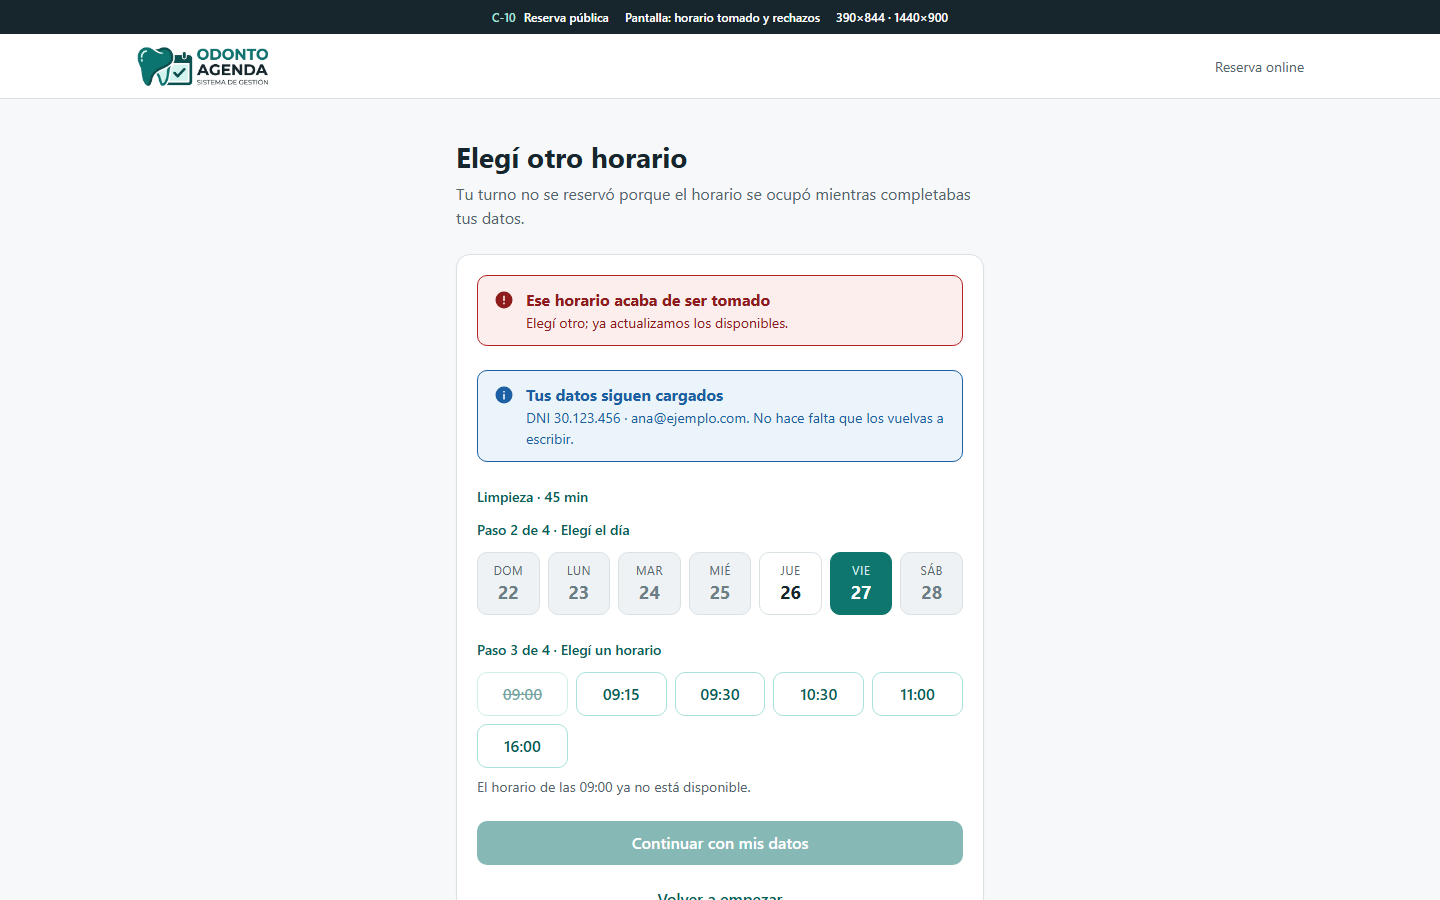
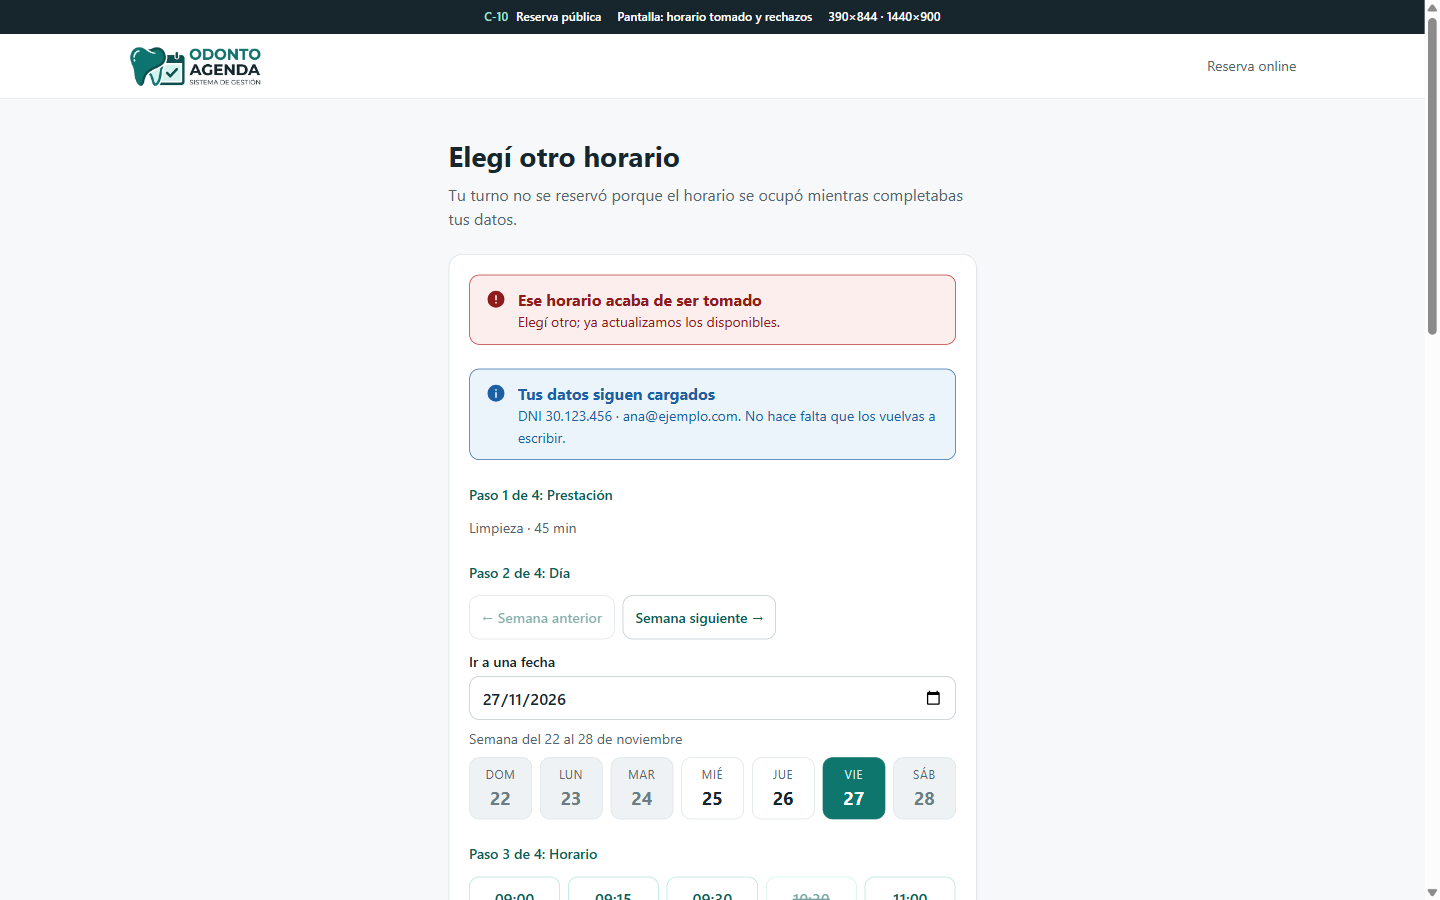
docs(C-10): alinear conflicto con la seleccion y regenerar capturas
- reserva-conflicto.html: pasos "Paso N de 4", navegacion semanal,
  salto por fecha y horario tomado 10:30 coherente con el formulario.
- mockup.js: dia seleccionado inicial configurable por data-seleccionada.
- design.md: campos del gate de mockups y riesgo contradictorio eliminado.
- proposal.md: flujo en 4 pasos.
- previews: 8 capturas regeneradas a 390x844 y 1440x900 reales.

diff --git a/openspec/changes/c-10-reserva-publica-ui/mockups/reserva-conflicto.html b/openspec/changes/c-10-reserva-publica-ui/mockups/reserva-conflicto.html
@@ -44,28 +44,51 @@
       </div>
 
       <div>
-        <p class="step">Limpieza · 45 min</p>
-        <p class="step">Paso 2 de 4 · Elegí el día</p>
-        <div class="days" role="group" aria-label="Elegí el día">
-          <button class="day" type="button" disabled><small>dom</small><strong>22</strong></button>
-          <button class="day" type="button" disabled><small>lun</small><strong>23</strong></button>
-          <button class="day" type="button" disabled><small>mar</small><strong>24</strong></button>
-          <button class="day" type="button" disabled><small>mié</small><strong>25</strong></button>
-          <button class="day" type="button" aria-pressed="false"><small>jue</small><strong>26</strong></button>
-          <button class="day" type="button" aria-pressed="true"><small>vie</small><strong>27</strong></button>
-          <button class="day" type="button" disabled><small>sáb</small><strong>28</strong></button>
+        <p class="step">Paso 1 de 4: Prestación</p>
+        <p class="small muted">Limpieza · 45 min</p>
+
+        <p class="step" style="margin-top: var(--space-6)">Paso 2 de 4: Día</p>
+
+        <div class="day-nav">
+          <div class="week-nav" role="group" aria-label="Navegación por semana">
+            <button class="week-btn" id="semana-anterior" type="button" aria-label="Semana anterior" disabled>
+              <span aria-hidden="true">←</span><span class="week-btn__text">Semana anterior</span>
+            </button>
+            <button class="week-btn" id="semana-siguiente" type="button" aria-label="Semana siguiente">
+              <span class="week-btn__text">Semana siguiente</span><span aria-hidden="true">→</span>
+            </button>
+          </div>
+          <label class="date-jump">
+            <span>Ir a una fecha</span>
+            <input class="input" id="salto-fecha" type="date" min="2026-11-22" max="2027-01-21" value="2026-11-27">
+          </label>
         </div>
 
-        <p class="step" style="margin-top: var(--space-6)">Paso 3 de 4 · Elegí un horario</p>
+        <p class="days-range" id="rango-semana" aria-live="polite">Semana del 22 al 28 de noviembre</p>
+
+        <div class="days-wrap" id="dias-wrap">
+          <div class="days" id="dias" role="group" aria-label="Elegí el día" data-seleccionada="2026-11-27">
+            <button class="day" type="button" disabled aria-label="Domingo 22 de noviembre, sin horarios"><small>dom</small><strong>22</strong></button>
+            <button class="day" type="button" disabled aria-label="Lunes 23 de noviembre, sin horarios"><small>lun</small><strong>23</strong></button>
+            <button class="day" type="button" disabled aria-label="Martes 24 de noviembre, sin horarios"><small>mar</small><strong>24</strong></button>
+            <button class="day" type="button" disabled aria-label="Miércoles 25 de noviembre, sin horarios"><small>mié</small><strong>25</strong></button>
+            <button class="day" type="button" aria-pressed="false" aria-label="Jueves 26 de noviembre"><small>jue</small><strong>26</strong></button>
+            <button class="day" type="button" aria-pressed="true" aria-label="Viernes 27 de noviembre"><small>vie</small><strong>27</strong></button>
+            <button class="day" type="button" disabled aria-label="Sábado 28 de noviembre, sin horarios"><small>sáb</small><strong>28</strong></button>
+          </div>
+        </div>
+        <p class="scroll-hint">Deslizá para ver más días <span aria-hidden="true">→</span></p>
+
+        <p class="step" style="margin-top: var(--space-6)">Paso 3 de 4: Horario</p>
         <div class="slots" role="group" aria-label="Elegí un horario">
-          <button class="chip" type="button" disabled title="Ese horario ya está tomado">09:00</button>
+          <button class="chip" type="button" aria-pressed="false">09:00</button>
           <button class="chip" type="button" aria-pressed="false">09:15</button>
           <button class="chip" type="button" aria-pressed="false">09:30</button>
-          <button class="chip" type="button" aria-pressed="false">10:30</button>
+          <button class="chip" type="button" disabled title="Ese horario ya está tomado">10:30</button>
           <button class="chip" type="button" aria-pressed="false">11:00</button>
           <button class="chip" type="button" aria-pressed="false">16:00</button>
         </div>
-        <p class="small muted" style="margin-top: var(--space-2)">El horario de las 09:00 ya no está disponible.</p>
+        <p class="small muted" style="margin-top: var(--space-2)">El horario de las 10:30 ya no está disponible.</p>
       </div>
 
       <div class="btn-row">
@@ -132,6 +155,7 @@
     </div>
   </section>
 
+  <script src="mockup.js"></script>
   <script src="../../../../design-system/brand.js"></script>
 </body>
 </html>

diff --git a/openspec/changes/c-10-reserva-publica-ui/mockups/mockup.js b/openspec/changes/c-10-reserva-publica-ui/mockups/mockup.js
@@ -23,7 +23,7 @@ if (diasEl) {
   const saltoEl = document.getElementById('salto-fecha')
 
   let inicioSemana = HOY
-  let seleccionada = '2026-11-26'
+  let seleccionada = diasEl.dataset.seleccionada ?? '2026-11-26'
 
   const aFecha = (iso) => {
     const [anio, mes, dia] = iso.split('-').map(Number)

diff --git a/openspec/changes/c-10-reserva-publica-ui/design.md b/openspec/changes/c-10-reserva-publica-ui/design.md
@@ -102,6 +102,12 @@ Se testean en `node` con Vitest: validadores (casos válidos e inválidos por ca
 
 ## UI Mockups
 
+- Design system revision: 2
+- Decision: yes (2026-11-22)
+- Mockups: `openspec/changes/c-10-reserva-publica-ui/mockups/`
+- Approval: pending
+- Preview: rendered (2026-11-22, `mockups/previews/`)
+
 Política `system-and-mockups`, revisión 2. Antes del apply hay que crear y aprobar:
 
 - **Ubicación**: `openspec/changes/c-10-reserva-publica-ui/mockups/`.
@@ -116,7 +122,6 @@ Política `system-and-mockups`, revisión 2. Antes del apply hay que crear y apr
 ## Risks / Trade-offs
 
 - **Contrato de C-04 ya implementado** (router, `api-client`, fechas y componentes base archivados) → cambios futuros en sus firmas impactan C-10. Mitigación: consumir la superficie pública existente y adaptar el wiring sin duplicar el shell.
-- **Contrato de C-04 incierto** (nombres de `api-client`, router y helpers de fecha) → acoplamiento. Mitigación: la feature depende de una superficie mínima (fetch tipado, navegación y formato de fecha) y las tareas incluyen adaptar el wiring sin cambiar la spec.
 - **Duplicar validación backend/frontend** → deriva si cambian las reglas. Mitigación: la UI muestra siempre los `detalles` del servidor y la validación local es solo feedback temprano.
 - **Ventana de 60 días en la tira de días** → demasiados nodos. Mitigación: paginación de 7 días + `input type="date"`; nunca se renderizan los 60 de una.
 - **Datos del paciente conservados tras conflicto** → riesgo de asociarlos a un horario que ya no está. Mitigación: al refrescar se limpia solo el horario seleccionado y se exige elegir uno nuevo antes de confirmar.

diff --git a/openspec/changes/c-10-reserva-publica-ui/proposal.md b/openspec/changes/c-10-reserva-publica-ui/proposal.md
@@ -7,7 +7,7 @@ La API de reserva pública de C-07 ya permite consultar disponibilidad y crear t
 ## What Changes
 
 - Nueva página pública `/reservar/{slug}` que carga el perfil del odontólogo, permite elegir prestación, fecha y horario libre, y completa los datos del paciente.
-- Flujo en una sola columna, pensado primero para celular de 360 px: prestación → día y horario → datos y confirmación → éxito.
+- Flujo en una sola columna, pensado primero para celular de 360 px: 4 pasos (prestación → día → horario → tus datos) y la pantalla de éxito.
 - Validación en cliente de los mismos campos que exige la API (DNI de 7 u 8 dígitos, teléfono E.164, email, nombre y apellido obligatorios) con mensajes en español rioplatense, sin reemplazar la validación del servidor.
 - Manejo explícito de los errores del backend: 409 `RN-TU-01` con refresco de la disponibilidad, 409 `RN-PA-03` por el límite de dos turnos futuros, 422 `RN-TU-03`/`RN-TU-11`/`RN-AG-05` por ventana y agenda, 400 `VALIDACION` con detalle por campo y 404 `NO_ENCONTRADO` por slug o prestación inexistente.
 - Pantalla de éxito que confirma fecha, hora, prestación, consultorio y el email al que se enviará el link de gestión (el token nunca se muestra en la UI).
